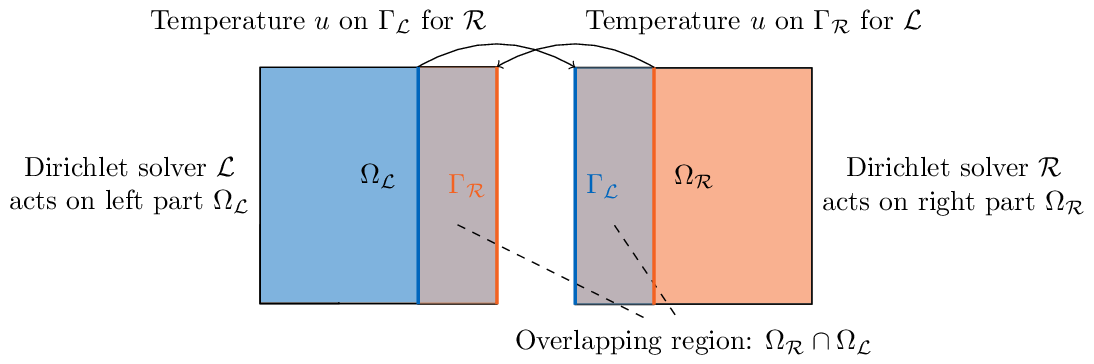
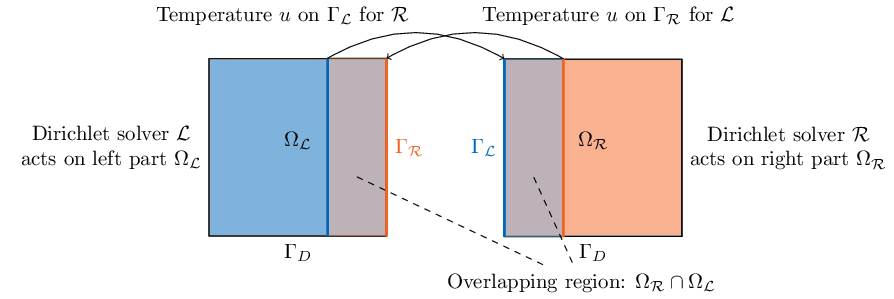
Move labels around.

Changed region(s): [[0.0, 0.0, 0.9966, 0.8729], [0.453, 0.903, 0.8154, 0.9933]]

diff --git a/partitioned-heat-conduction-overlap/images/tutorials-partitioned-heat-conduction-overlap-setup.tex b/partitioned-heat-conduction-overlap/images/tutorials-partitioned-heat-conduction-overlap-setup.tex
@@ -30,46 +30,48 @@
 \tikzset{export as png}
 \tikzsetnextfilename{tutorials-partitioned-heat-conduction-schwarz-setup}
 \begin{tikzpicture}
-    \draw[fill=pblue!50](0,0) rectangle ++(1,1);
     \draw
-    (0,0) coordinate (a)
-    rectangle
-        ++(3,3) coordinate (b);
-        \node[fill=pblue!50, draw=black, fit=(a) (b),inner sep=0pt] (participantL) {$\Omega_\mathcal{L}$};
-
-        \draw
-        ($(participantL.south east)+(1,0)$) coordinate (a)
+        (0,0) coordinate (a)
         rectangle
         ++(3,3) coordinate (b);
-        \node[fill=porange!50, draw=black, fit=(a) (b),inner sep=0pt] (participantR) {$\Omega_\mathcal{R}$};
+    \node[fill=pblue!50, draw=black, fit=(a) (b),inner sep=0pt] (participantL) {$\Omega_\mathcal{L}$};
 
-        \draw
+    \draw
+        ($(participantL.south east)+(2,0)$) coordinate (a)
+        rectangle
+        ++(3,3) coordinate (b);
+    \node[fill=porange!50, draw=black, fit=(a) (b),inner sep=0pt] (participantR) {$\Omega_\mathcal{R}$};
+
+    \draw
         ($(participantL.south east)-(1,0)$) coordinate (a)
         rectangle
         ($(participantL.north east)$) coordinate (b);
-        \node[fill=porange!50,opacity=0.5, fit=(a) (b),inner sep=0pt] (overlapL){};
+    \node[fill=porange!50,opacity=0.5, fit=(a) (b),inner sep=0pt] (overlapL){};
 
-        \draw
+    \draw
         ($(participantR.south west)+(1,0)$) coordinate (a)
         rectangle
         ($(participantR.north west)$) coordinate (b);
-        \node[fill=pblue!50,opacity=0.5, fit=(a) (b),inner sep=0pt] (overlapR){};
+    \node[fill=pblue!50,opacity=0.5, fit=(a) (b),inner sep=0pt] (overlapR){};
 
-        \node[below = 0.2cm of participantR](overlapLabel){Overlapping region: $\Omega_\mathcal{R}\cap\Omega_\mathcal{L}$};
-        \draw[dashed] ([yshift=-.5cm]overlapL.center) -- (overlapLabel);
-        \draw[dashed] ([yshift=-.5cm]overlapR.center) -- (overlapLabel);
+    \node[below = 0.5cm of participantR,xshift=-0.2cm](overlapLabel){Overlapping region: $\Omega_\mathcal{R}\cap\Omega_\mathcal{L}$};
+    \draw[dashed] ([yshift=-.5cm]overlapL.center) -- (overlapLabel);
+    \draw[dashed] ([yshift=-.5cm]overlapR.center) -- (overlapLabel);
 
-        \draw[very thick, pblue]($(participantL.south east)-(1,0)$) -- ($(participantL.north east)-(1,0)$);
-        \draw[very thick, porange]($(participantR.south west)+(1,0)$) -- ($(participantR.north west)+(1,0)$);
+    \draw[very thick, pblue]($(participantL.south east)-(1,0)$) -- ($(participantL.north east)-(1,0)$);
+    \draw[very thick, porange]($(participantR.south west)+(1,0)$) -- ($(participantR.north west)+(1,0)$);
 
-        \draw[very thick, porange](participantL.south east) -- node[left]{$\Gamma_\mathcal{R}$}($(participantL.north east)$);
-        \draw[very thick, pblue](participantR.south west) -- node[right]{$\Gamma_\mathcal{L}$} ($(participantR.north west)$);
+    \draw[very thick, porange](participantL.south east) -- node[right]{$\Gamma_\mathcal{R}$}($(participantL.north east)$);
+    \draw[very thick, pblue](participantR.south west) -- node[left]{$\Gamma_\mathcal{L}$} ($(participantR.north west)$);
 
     \node[left = 0cm of participantL,align=center] {Dirichlet solver $\mathcal{L}$\\ acts on left part $\Omega_\mathcal{L}$};
     \node[right = 0cm of participantR,align=center] {Dirichlet solver $\mathcal{R}$\\ acts on right part $\Omega_\mathcal{R}$};
 
     \draw[->]($(participantR.north west)+(1,0)$) to[out=150,in=30] node[above right,align=center]{Temperature $u$ on $\Gamma_\mathcal{R}$ for $\mathcal{L}$} (participantL.north east);
     \draw[->]($(participantL.north east)-(1,0)$) to[out=30,in=150] node[above left,align=center]{Temperature $u$ on $\Gamma_\mathcal{L}$ for $\mathcal{R}$} (participantR.north west);
+
+    \draw[draw=none] (participantL.south east) -- node[below]{$\Gamma_D$} (participantL.south west);
+    \draw[draw=none] (participantR.south east) -- node[below]{$\Gamma_D$} (participantR.south west);
 \end{tikzpicture}
 
 \end{document}
